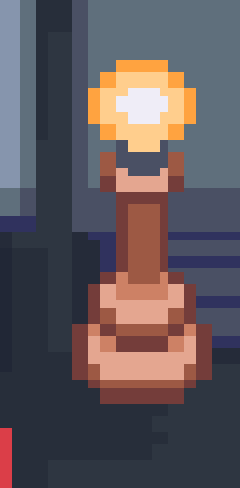
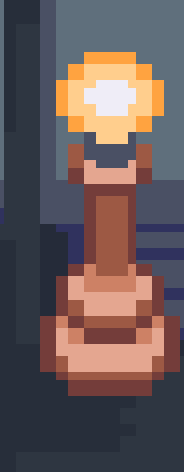
Equilibra a cena do heroi e limpa o recorte da lampada
A coluna de leituras estava em 1fr, entao esticava por espaco vazio e empurrava
a foto para um canto - o mesmo defeito do heroi anterior, so que dentro do
painel. As duas colunas agora sao limitadas e o par fica centrado.

Miniaturas de 46 para 58px: a bandeja e a lampada eram ilegiveis no tamanho
anterior.

O recorte da lampada pegava uma listra vermelha de um objeto vizinho no canto
inferior esquerdo.

Claude-Session: https://claude.ai/code/session_01B8DWXppGxLqEVEZNA2sTxB

diff --git a/site/index.html b/site/index.html
@@ -117,16 +117,20 @@ code { font-family: var(--mono); font-size: 0.92em; color: var(--warm); }
 
 /* The room shot is portrait, so it sits beside the readouts rather than being cropped into a
    letterbox it was never framed for. */
-.scene { display: grid; gap: clamp(1.4rem, 4vw, 2.8rem); position: relative; align-items: center; }
-@media (min-width: 50rem) { .scene { grid-template-columns: minmax(0, 300px) 1fr; } }
+.scene { display: grid; gap: clamp(1.4rem, 4vw, 3rem); position: relative; align-items: center; }
+@media (min-width: 50rem) {
+  /* Both columns bounded and the pair centred: letting the readouts take 1fr stretched them
+     across empty space and pushed the photograph off to one side. */
+  .scene { grid-template-columns: minmax(0, 340px) minmax(0, 27rem); justify-content: center; }
+}
 
 .shot { border: 1px solid #3d4257; border-radius: 3px; overflow: hidden; display: block; }
 .shot img { display: block; width: 100%; height: auto; }
 
 .readouts { display: grid; gap: 1.1rem; }
 
-.readout { display: grid; grid-template-columns: 54px 1fr; gap: 1rem; align-items: center; }
-.readout img { height: 46px; width: auto; justify-self: center; }
+.readout { display: grid; grid-template-columns: 62px 1fr; gap: 1.1rem; align-items: center; }
+.readout img { height: 58px; width: auto; justify-self: center; }
 
 .object-name {
   font-family: var(--mono);
